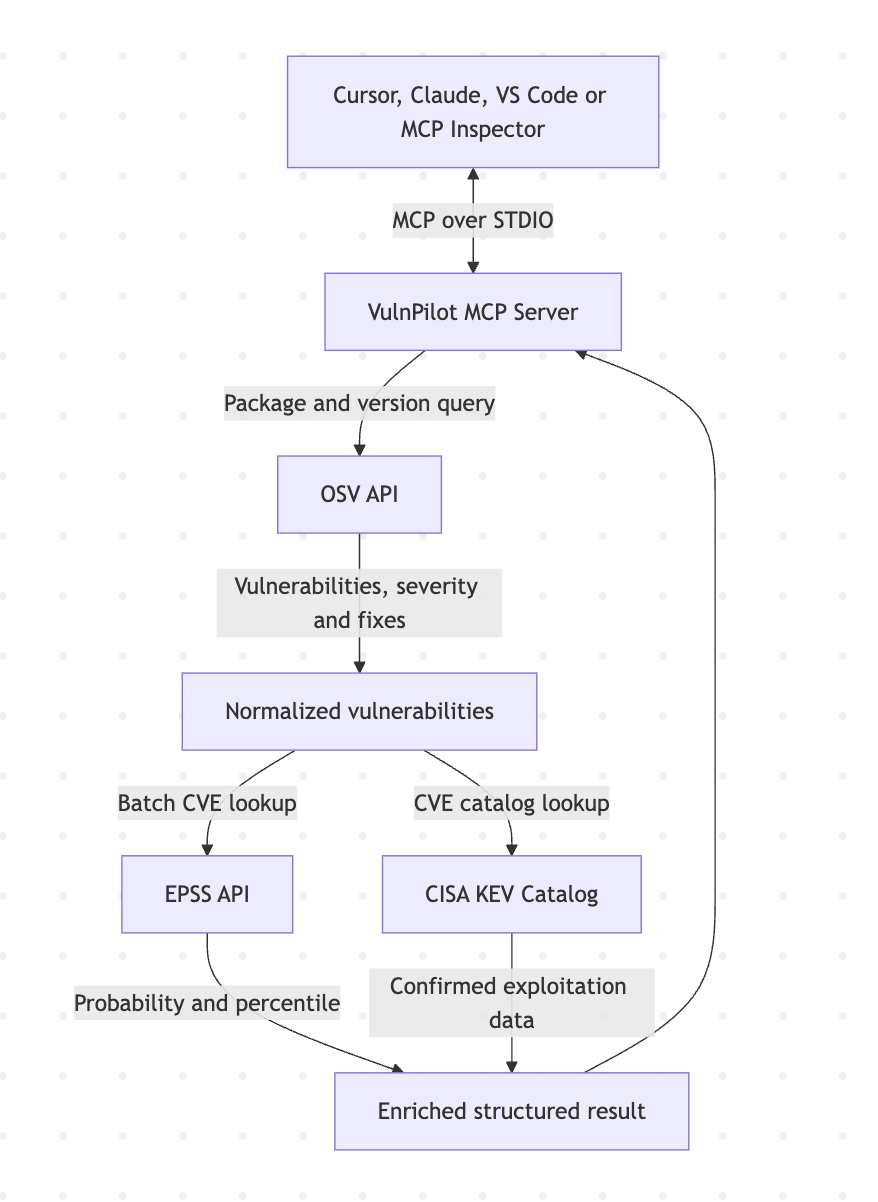
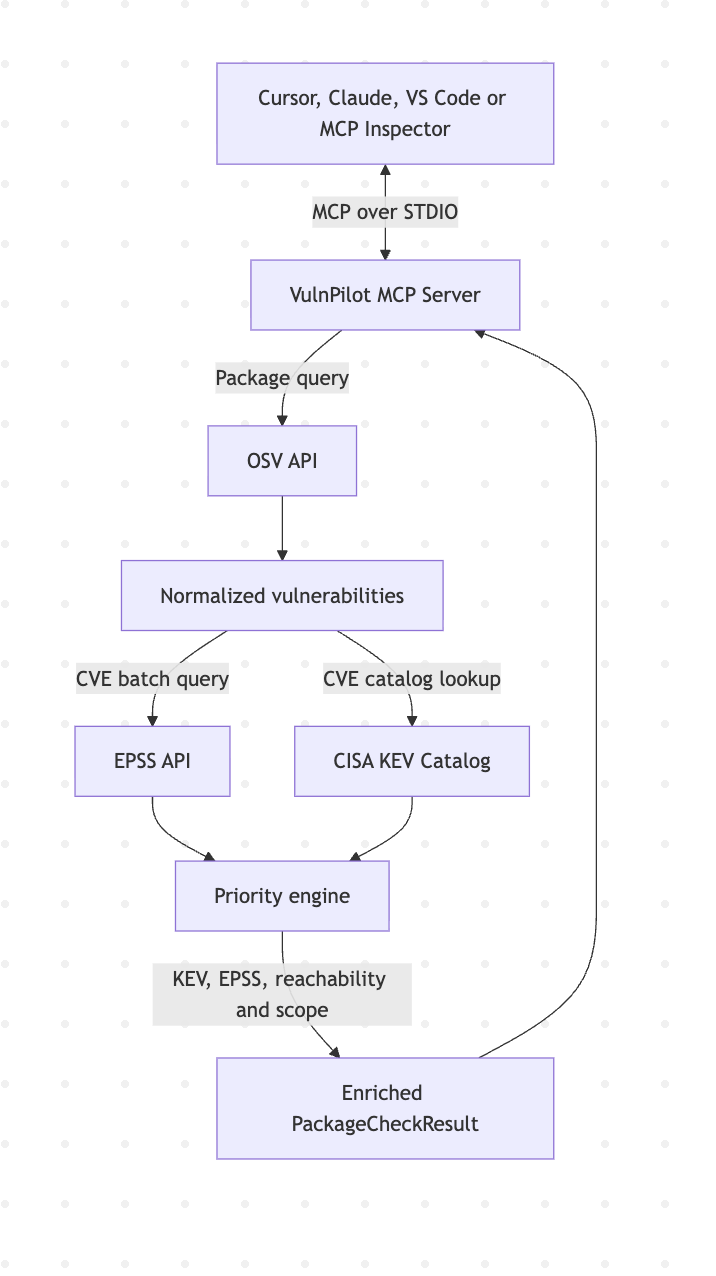
Implementing priority engine based on epss and cisa kev

diff --git a/tests/test_triage.py b/tests/test_triage.py
@@ -1,0 +1,92 @@
+import pytest
+
+from vulnpilot.models import Vulnerability
+from vulnpilot.triage import calculate_priority
+
+
+def make_vulnerability(
+    *,
+    severity="HIGH",
+    known_exploited=False,
+    epss_probability=None,
+):
+    vulnerability = Vulnerability(
+        id="GHSA-test",
+        summary="Test vulnerability",
+        severity=severity,
+    )
+
+    intelligence = vulnerability.exploit_intelligence
+    intelligence.known_exploited = known_exploited
+    intelligence.epss_probability = epss_probability
+
+    return vulnerability
+
+
+def test_kev_is_immediate():
+    vulnerability = make_vulnerability(
+        known_exploited=True,
+    )
+
+    priority = calculate_priority(
+        vulnerability,
+        is_reachable=False,
+        dependency_scope="development",
+    )
+
+    assert priority == "IMMEDIATE"
+
+
+def test_reachable_high_epss_is_urgent():
+    vulnerability = make_vulnerability(
+        epss_probability=0.75,
+    )
+
+    priority = calculate_priority(
+        vulnerability,
+        is_reachable=True,
+        dependency_scope="development",
+    )
+
+    assert priority == "URGENT"
+
+
+def test_critical_production_dependency_is_high():
+    vulnerability = make_vulnerability(
+        severity="CRITICAL",
+        epss_probability=0.01,
+    )
+
+    priority = calculate_priority(
+        vulnerability,
+        is_reachable=False,
+        dependency_scope="production",
+    )
+
+    assert priority == "HIGH"
+
+
[email redacted](
+    ("reachable", "scope"),
+    [
+        (False, "production"),
+        (True, "development"),
+        (None, "unknown"),
+    ],
+)
+def test_other_findings_are_normal(
+    reachable,
+    scope,
+):
+    vulnerability = make_vulnerability(
+        severity="MODERATE",
+        epss_probability=0.01,
+    )
+
+    priority = calculate_priority(
+        vulnerability,
+        is_reachable=reachable,
+        dependency_scope=scope,
+    )
+
+    assert priority == "NORMAL"

diff --git a/src/vulnpilot/triage.py b/src/vulnpilot/triage.py
@@ -1,0 +1,56 @@
+from vulnpilot.models import (
+    DependencyScope,
+    TriagePriority,
+    Vulnerability,
+)
+
+
+HIGH_EPSS_THRESHOLD = 0.5
+
+
+def calculate_priority(
+    vulnerability: Vulnerability,
+    *,
+    is_reachable: bool | None,
+    dependency_scope: DependencyScope,
+) -> TriagePriority:
+    """Calculate an explainable remediation priority."""
+
+    intelligence = vulnerability.exploit_intelligence
+
+    if intelligence.known_exploited:
+        return "IMMEDIATE"
+
+    if (
+        is_reachable is True
+        and intelligence.epss_probability is not None
+        and intelligence.epss_probability
+        >= HIGH_EPSS_THRESHOLD
+    ):
+        return "URGENT"
+
+    if (
+        dependency_scope == "production"
+        and vulnerability.severity == "CRITICAL"
+    ):
+        return "HIGH"
+
+    return "NORMAL"
+
+
+def assign_priorities(
+    vulnerabilities: list[Vulnerability],
+    *,
+    is_reachable: bool | None,
+    dependency_scope: DependencyScope,
+) -> list[Vulnerability]:
+    """Assign priority to every vulnerability."""
+
+    for vulnerability in vulnerabilities:
+        vulnerability.priority = calculate_priority(
+            vulnerability,
+            is_reachable=is_reachable,
+            dependency_scope=dependency_scope,
+        )
+
+    return vulnerabilities

diff --git a/src/vulnpilot/models.py b/src/vulnpilot/models.py
@@ -10,6 +10,19 @@ Ecosystem = Literal[
     "Gradle",
 ]
 
+TriagePriority = Literal[
+    "IMMEDIATE",
+    "URGENT",
+    "HIGH",
+    "NORMAL",
+]
+
+DependencyScope = Literal[
+    "production",
+    "development",
+    "unknown",
+]
+
 class ExploitIntelligence(BaseModel):
     """Real-world exploitation intelligence for a vulnerability."""
 
@@ -46,6 +59,7 @@ class Vulnerability(BaseModel):
     exploit_intelligence: ExploitIntelligence = Field(
         default_factory=ExploitIntelligence
     )
+    priority: TriagePriority = "NORMAL"
 
 class PackageCheckResult(BaseModel):
     """Structured result returned by check_package."""

diff --git a/src/vulnpilot/server.py b/src/vulnpilot/server.py
@@ -3,6 +3,8 @@ from typing import Literal
 from mcp.server.fastmcp import FastMCP
 from vulnpilot.models import PackageCheckResult, Ecosystem
 from vulnpilot.osv_client import normalize_vulnerability, query_osv
+from vulnpilot.models import DependencyScope
+from vulnpilot.triage import assign_priorities
 
 from vulnpilot.cisa_kev_client import (
     CISAKEVClientError,
@@ -42,6 +44,8 @@ async def check_package(
     package_name: str,
     version: str,
     ecosystem: Ecosystem = "PyPI",
+    is_reachable: bool | None = None,
+    dependency_scope: DependencyScope = "unknown",
 ) -> PackageCheckResult:
     """Check an exact dependency version for known vulnerabilities.
 
@@ -110,6 +114,12 @@ async def check_package(
         )
     except CISAKEVClientError as exc:
         enrichment_warnings.append(str(exc))
+    
+    simplified_vulnerabilities = assign_priorities(
+        simplified_vulnerabilities,
+        is_reachable=is_reachable,
+        dependency_scope=dependency_scope,
+    )
 
     return PackageCheckResult(
         package_name=package_name,